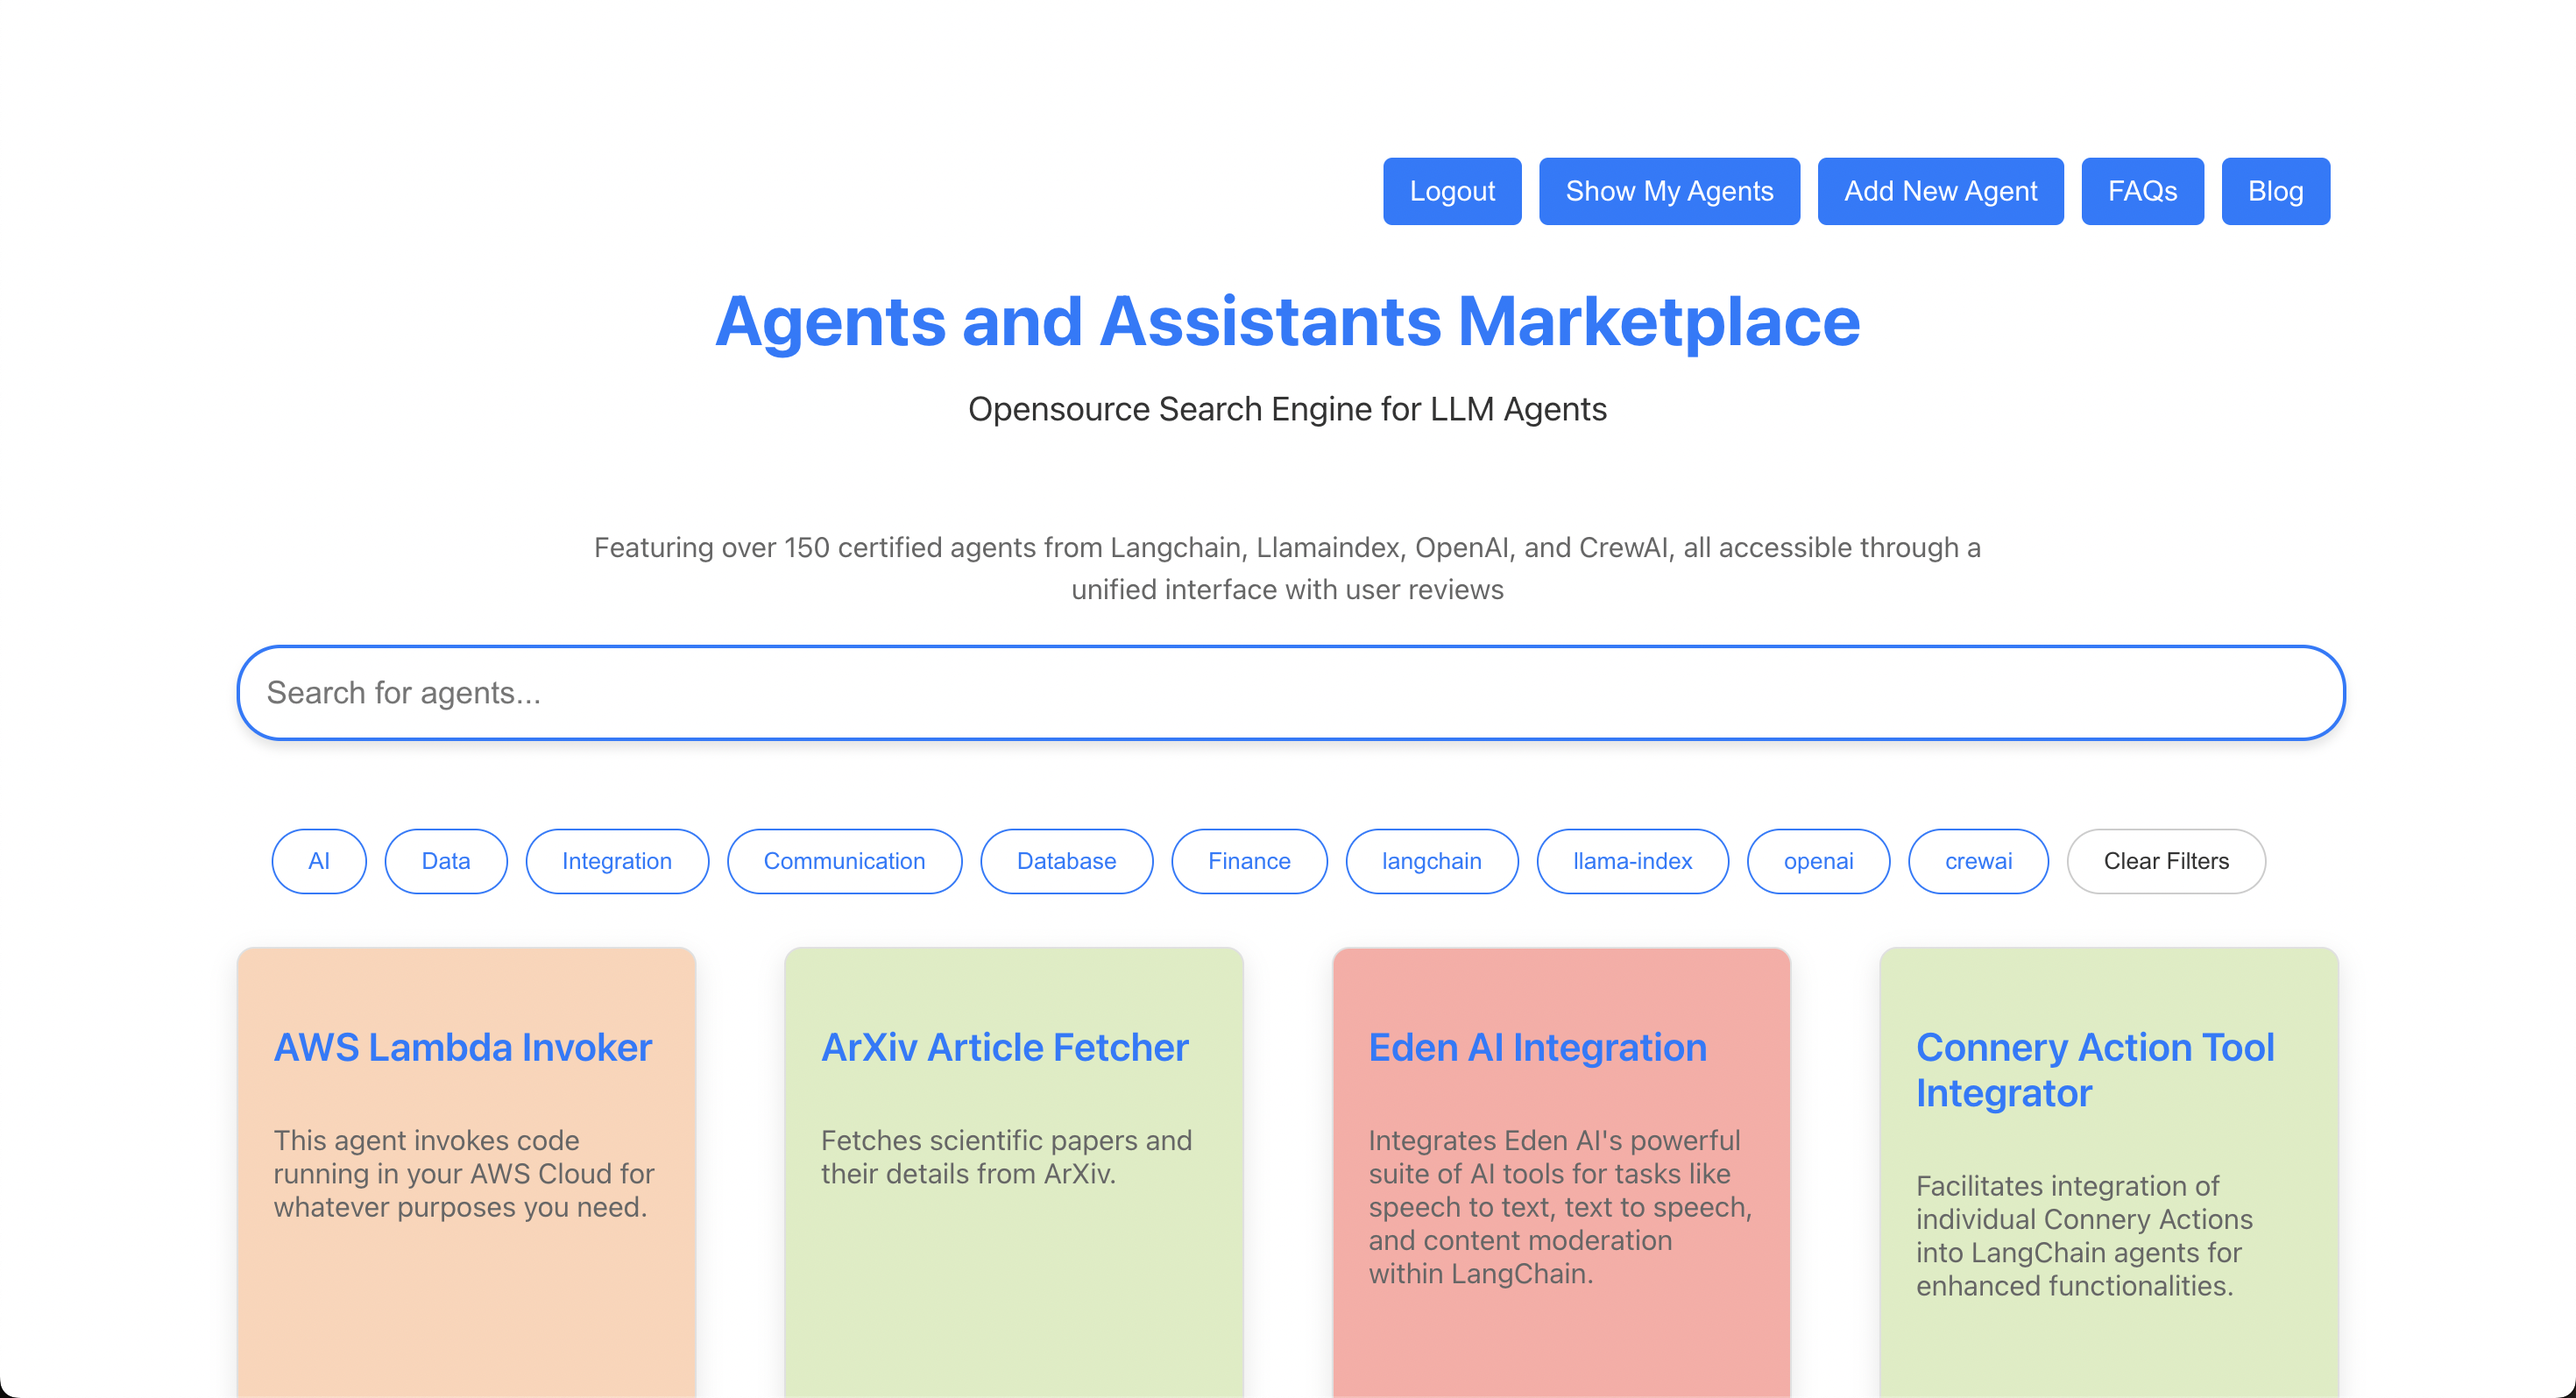
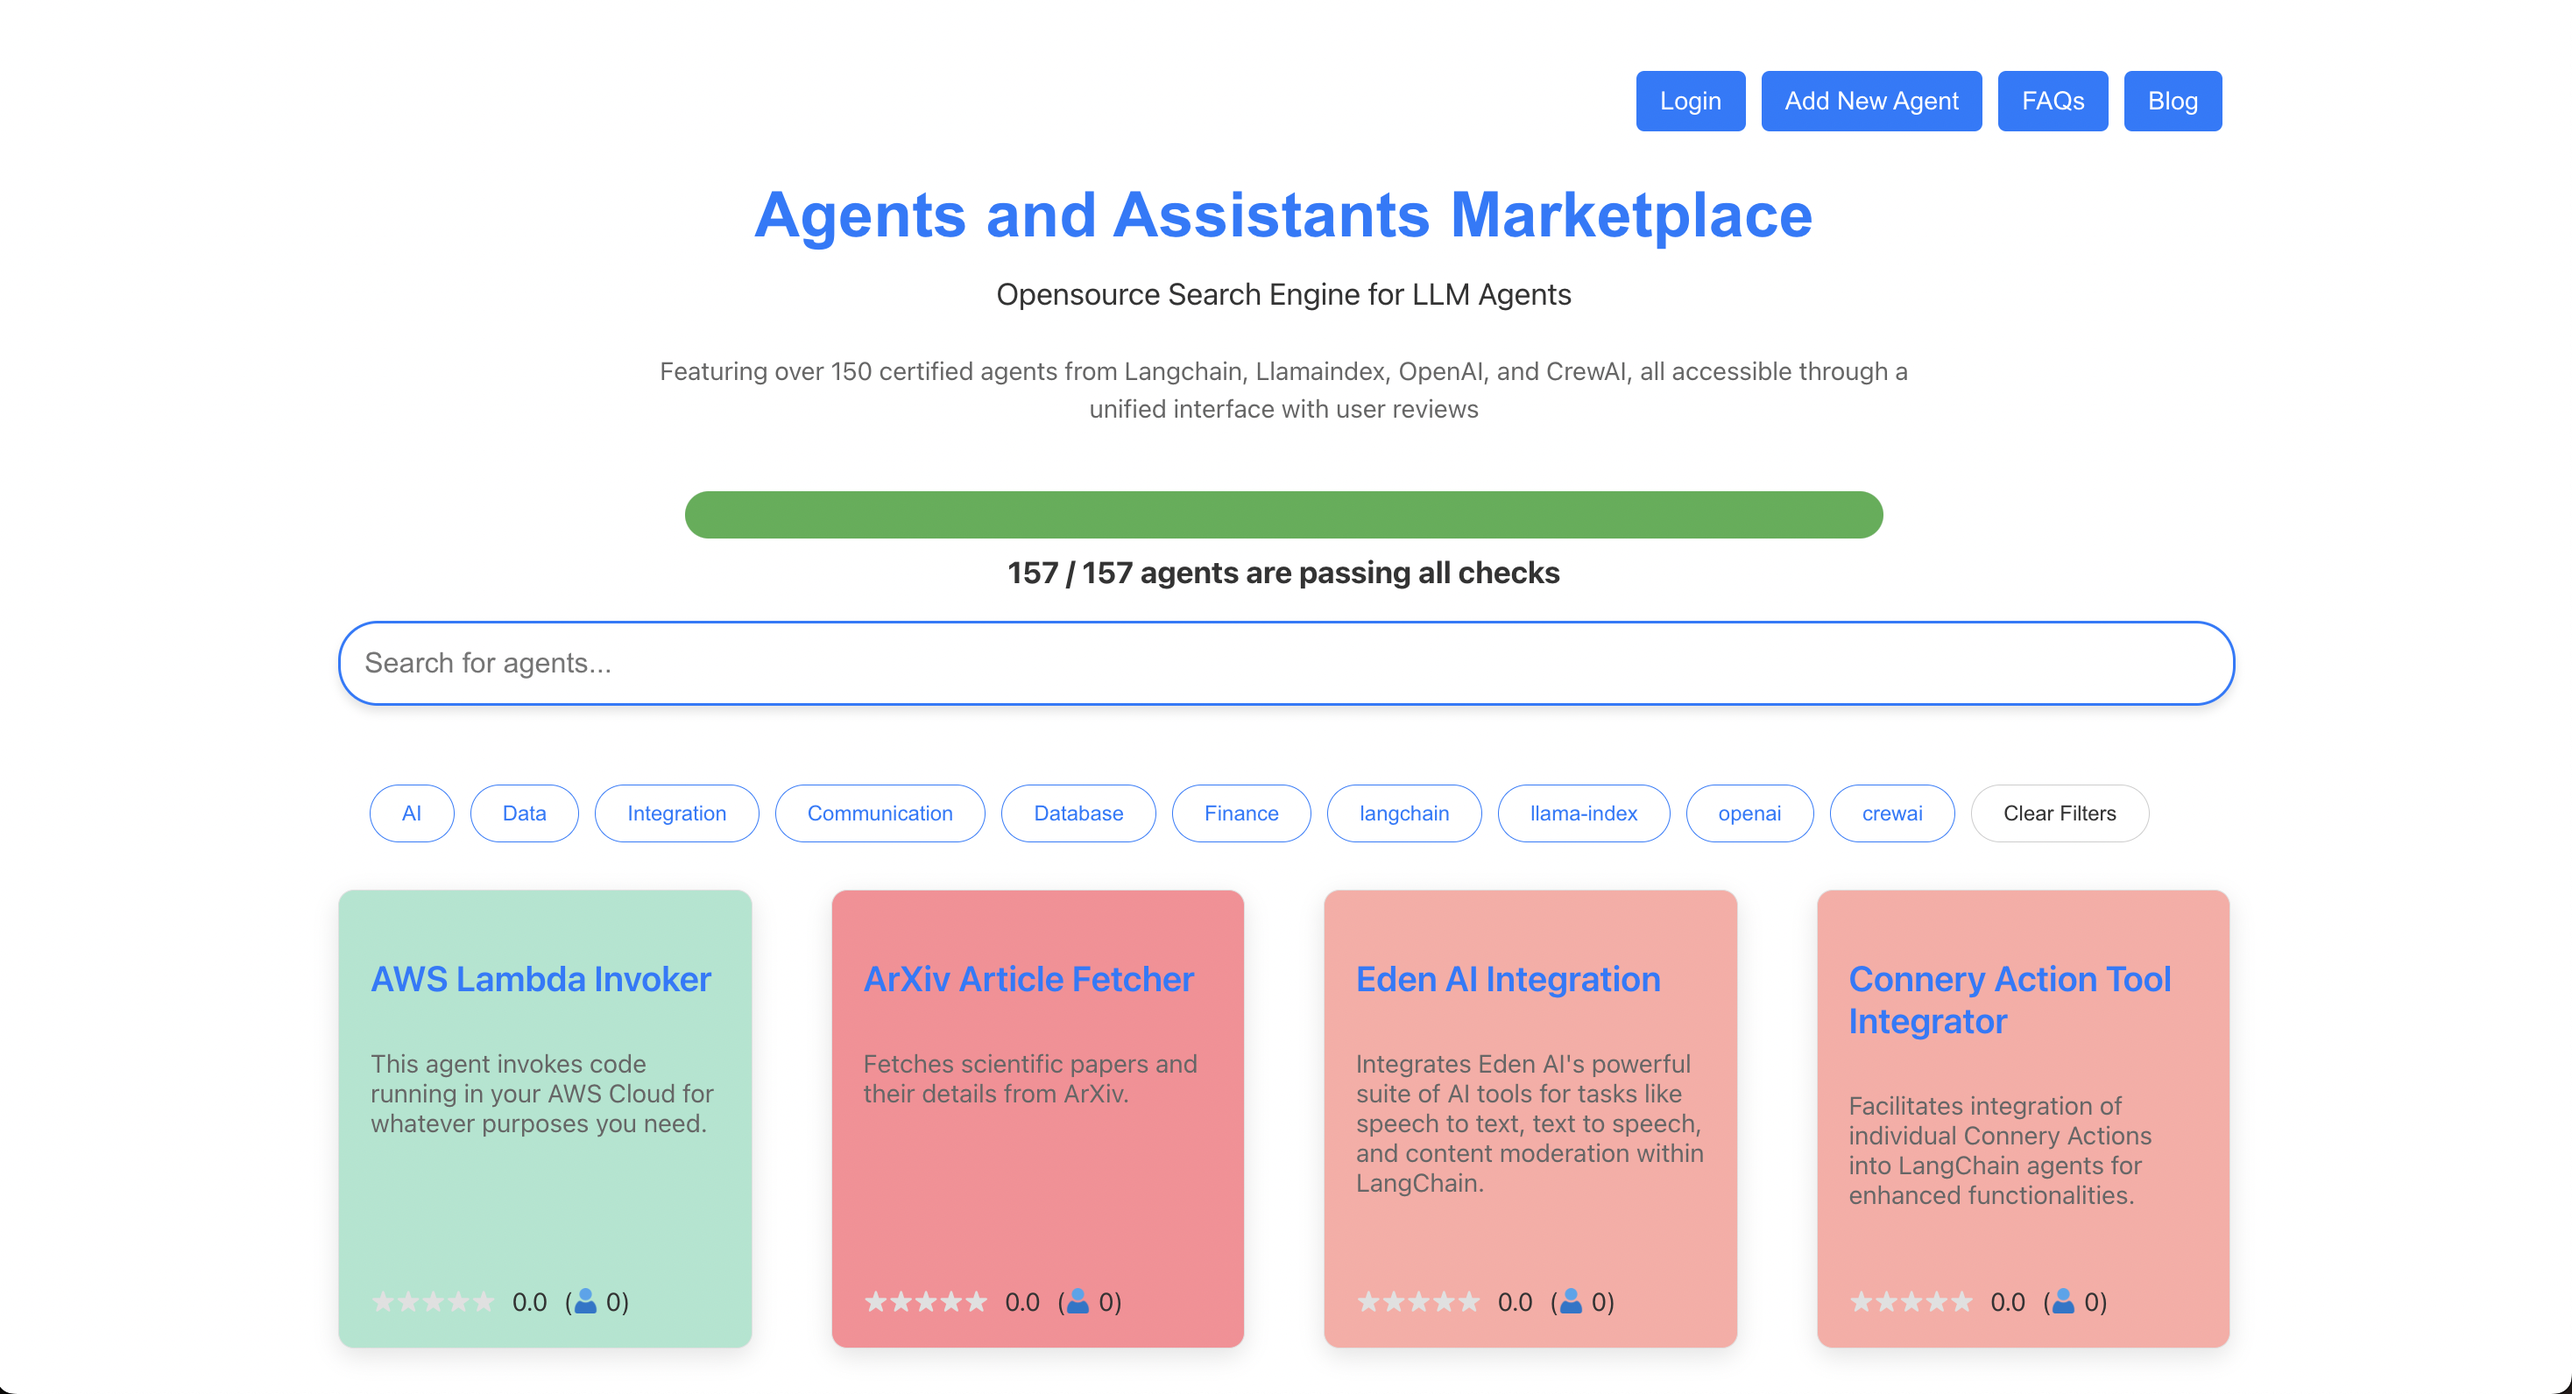
updated blog with ratings and progress bar

diff --git a/blogs/11_agent_marketplace.html b/blogs/11_agent_marketplace.html
@@ -117,21 +117,43 @@
                         </p>
                         <h5>Verification and Categorization of Agents</h5>
                         <p>
-                            These agents were sourced and verified from prominent sources such as <a href="https://platform.openai.com/docs/assistants/overview">OpenAI Assistants</a>, <a href="https://python.langchain.com/docs/modules/agents/">LangChain</a>, and <a href="https://llamahub.ai/?tab=agent">LlamaHub</a>. The marketplace categorizes agents into practical categories such as Communication, Finance, Data, and AI enabling users to search through a variety of different agents in a focused manner.
+                            These agents were sourced and verified from prominent sources such as <a href="https://platform.openai.com/docs/assistants/overview">OpenAI Assistants</a>, <a href="https://python.langchain.com/docs/modules/agents/">LangChain</a>, and <a href="https://llamahub.ai/?tab=agent">LlamaHub</a>. The marketplace categorizes agents into practical categories such as Communication, Finance, Data, and AI enabling users to search through a variety of different agents in a focused manner. Additionally, the homepage features a progress bar that displays which agents have been validated. As the marketplace grows, this progress bar will transition to a dynamic system that continuously runs and validates agents in the marketplace. 
+                        </p>
+                        <p>
+                            <img src="../assets/img/blog_post_11_progress_bar.png" style="margin-top: 20px; width: 70%;" alt="Progress Bar for Agent Validation">
+                        </p>
+                        <p width="80%" style="text-align:center; margin-left:10%; margin-right:10%; margin-bottom: 20px; padding-bottom: -15px">
+                            <i style="font-size: 0.9em;">
+                                The progress bar on the homepage indicates the validation status of agents.
+                            </i>
                         </p>
 
                         <h5>Contribution and Reviewing of Agents</h5>
                         <p>
-                            The Agent Marketplace also enables logged in users to publish their agents in a centralized platform. These agents have increased exposure to the open-source community, and can be verified by users through a review feature. Through this app store environment, the platform can accommodate a growing number of reviewed and verified agents and services.
+                            The Agent Marketplace also enables users to publish their agents on a centralized platform. These agents gain increased exposure to the open-source community and can be verified by users through a review feature. Users can easily leave ratings without logging in, and they don't need to provide their name to leave a star rating. Through this app store environment, the platform can accommodate a growing number of reviewed and verified agents and services.
                         </p>
                         <p>
-                            <img src="../assets/img/blog_post_11_review.png" alt="Contribution and Reviewing of Agents in the Marketplace" width="70%">
+                            <img src="../assets/img/blog_post_11_review.png" style="margin-top: 20px" alt="Contribution and Reviewing of Agents in the Marketplace" width="70%">
                         </p>
                         <p width="80%" style="text-align:center; margin-left:10%; margin-right:10%; margin-bottom: 20px; padding-bottom: -15px">
                             <i style="font-size: 0.9em;">
                                 Contributed agents are validated through user reviews.
                             </i>
                         </p>
+                        
+                        <h5>Agent Rating System</h5>
+                        <p>
+                            Each agent in the marketplace is given an overall rating, which is an average of user ratings. This provides a clear indication of the agent's performance and reliability based on feedback. Additionally, the number of reviews is displayed, indicating the agent's popularity. Users can see the agent's rating and review count on the agent tiles when searching for agents on the homepage and on the detailed screen for each agent.
+                        </p>
+                        <p>
+                            <img src="../assets/img/blog_post_11_ratings.png" style="margin-top: 20px; width: 38%; display: inline-block;" alt="Agent Rating on Homepage">
+                            <img src="../assets/img/blog_post_11_rating_detail.png" style="margin-top: 20px; width: 52%; display: inline-block;" alt="Agent Rating on Detail Screen">
+                        </p>
+                        <p width="80%" style="text-align:center; margin-left:10%; margin-right:10%; margin-bottom: 20px;">
+                            <i style="font-size: 0.9em;">
+                                The left image shows how the agent's rating and review count are displayed on the homepage, while the right image shows the detailed rating view in the agent's detail screen.
+                            </i>
+                        </p>                 
 
                         <h5>Centralization of Agents</h5>
                         <p>
@@ -229,7 +251,7 @@
 
                 <h4 id="future-directions">Future Directions</h4>
                 <p>
-                    As the marketplace evolves, it will continuously incorporate agents from a broader array of sources, including user contributions. This collaborative approach aims to steadily expand the range of services available on the marketplace, providing users with access to an increasingly diverse set of LLM-powered agents capable of automating a wide variety of tasks and enabling the development of powerful applications.
+                    As the marketplace evolves, it will continuously incorporate agents from a broader array of sources, including user contributions. This collaborative approach aims to steadily expand the range of services available on the marketplace, providing users with access to an increasingly diverse set of LLM-powered agents capable of automating a wide variety of tasks and enabling the development of powerful applications. An important next step will be the implementation of a dynamic validation system, ensuring all agents in the marketplace are continually tested and verified.
                 </p>
 
                 <h4 id="join-us">Join Us</h4>
